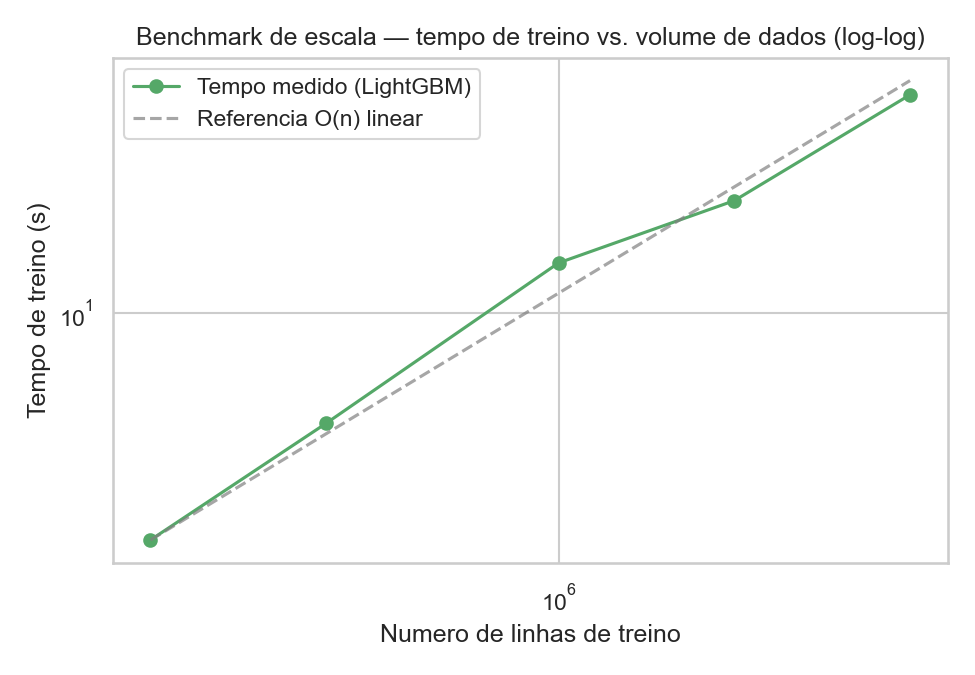
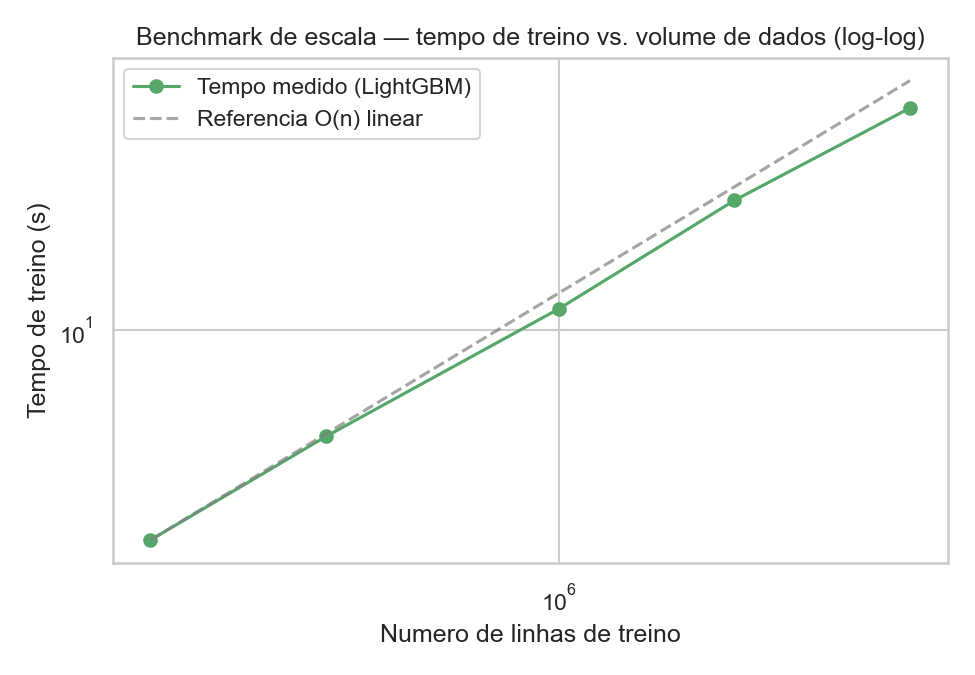
fix: reduzir ainda mais a carga da esteira de CI (curva de aprendizado, CV, complexidade)
O benchmark de escala reduzido nao foi suficiente -- curva de aprendizado, CV e
comparacao de complexidade tambem sao caros no runner compartilhado (2 nucleos,
mais lento que a maquina usada para os numeros do relatorio). Adicionados os
mesmos overrides por env var (LEARNING_CURVE_CV/N_POINTS, CV_FOLDS,
COMPLEXITY_ROW_SIZES/N_REPEATS), aplicados em dev e hom na CI. O estudo completo
continua em reports/relatorio.md, reproduzivel localmente sem essas env vars.

diff --git a/src/evaluate.py b/src/evaluate.py
@@ -90,7 +90,8 @@ def cross_validate(model_ctor, train_df: pd.DataFrame, config: dict) -> list[flo
     conjunto de treino — reporta PR-AUC por fold para discutir overfitting/underfitting."""
     target_col = config["features"]["target_col"]
     feature_cols = get_feature_columns(train_df, config)
-    k = config["evaluation"]["cv_folds"]
+    env_k = os.environ.get("CV_FOLDS", "").strip()
+    k = int(env_k) if env_k else config["evaluation"]["cv_folds"]
     seed = config["project"]["random_seed"]
 
     skf = StratifiedKFold(n_splits=k, shuffle=True, random_state=seed)
@@ -165,8 +166,13 @@ def complexity_comparison_benchmark(train_df: pd.DataFrame, config: dict, lgbm_c
     target_col = config["features"]["target_col"]
     feature_cols = get_feature_columns(train_df, config)
     cfg = config["evaluation"]["complexity_comparison"]
-    row_sizes = cfg["row_sizes"]
-    n_repeats = cfg["n_query_repeats"]
+    # mesmo padrao de override por env var usado em scale_benchmark/tune_lightgbm —
+    # a esteira de CI usa tamanhos e repeticoes menores (runner compartilhado, mais
+    # lento que uma maquina dedicada); o estudo completo ja esta no relatorio.
+    env_row_sizes = os.environ.get("COMPLEXITY_ROW_SIZES", "").strip()
+    row_sizes = [int(x) for x in env_row_sizes.split(",") if x.strip()] if env_row_sizes else cfg["row_sizes"]
+    env_n_repeats = os.environ.get("COMPLEXITY_N_REPEATS", "").strip()
+    n_repeats = int(env_n_repeats) if env_n_repeats else cfg["n_query_repeats"]
     seed = config["project"]["random_seed"]
     rng = np.random.default_rng(seed)
 
@@ -206,13 +212,18 @@ def learning_curve_data(model_ctor, train_df: pd.DataFrame, config: dict) -> dic
     feature_cols = get_feature_columns(train_df, config)
     seed = config["project"]["random_seed"]
 
+    # override por env var (mesmo padrao das demais funcoes de benchmark) — reduz
+    # cv/pontos da curva na esteira de CI, sem alterar o comportamento local/relatorio.
+    cv = int(os.environ.get("LEARNING_CURVE_CV", "3"))
+    n_points = int(os.environ.get("LEARNING_CURVE_N_POINTS", "6"))
+
     train_sizes, train_scores, val_scores = learning_curve(
         model_ctor(),
         train_df[feature_cols],
         train_df[target_col],
-        cv=3,
+        cv=cv,
         scoring="average_precision",
-        train_sizes=np.linspace(0.1, 1.0, 6),
+        train_sizes=np.linspace(0.1, 1.0, n_points),
         random_state=seed,
         n_jobs=-1,
     )
